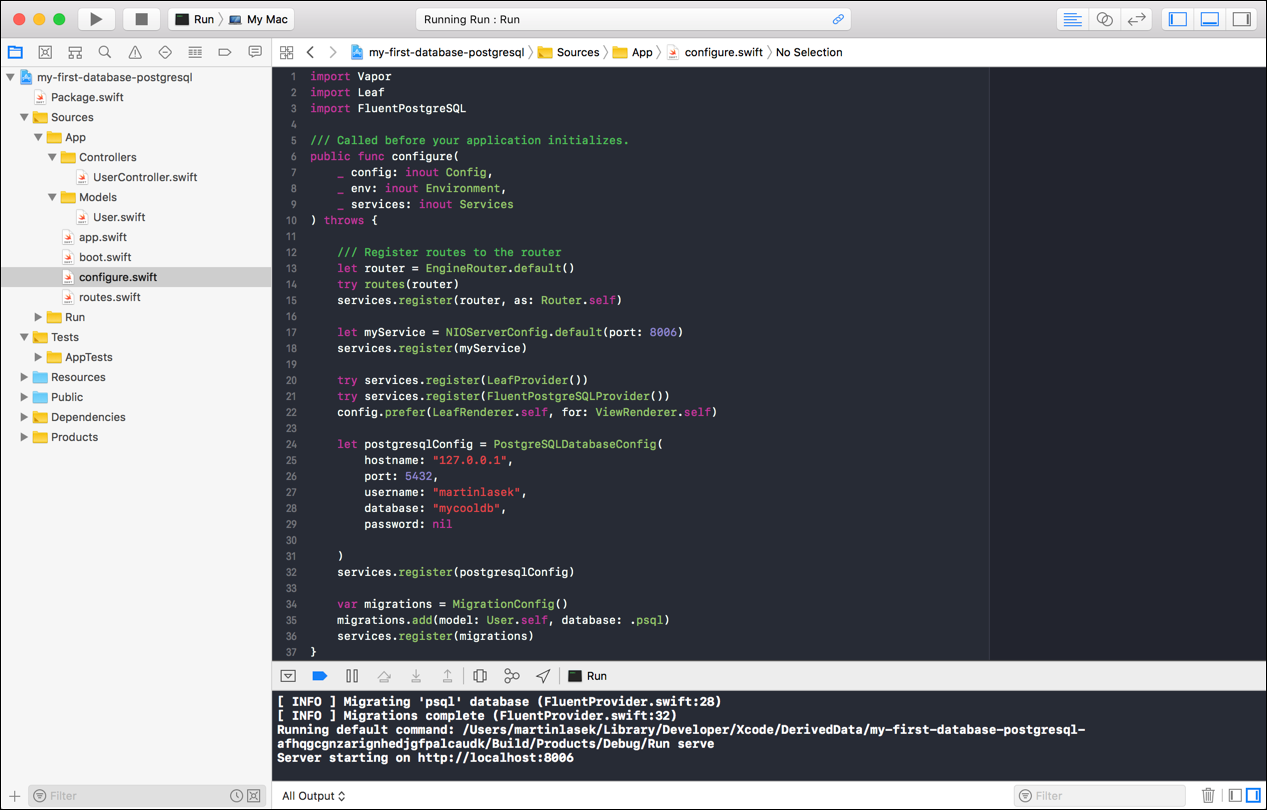
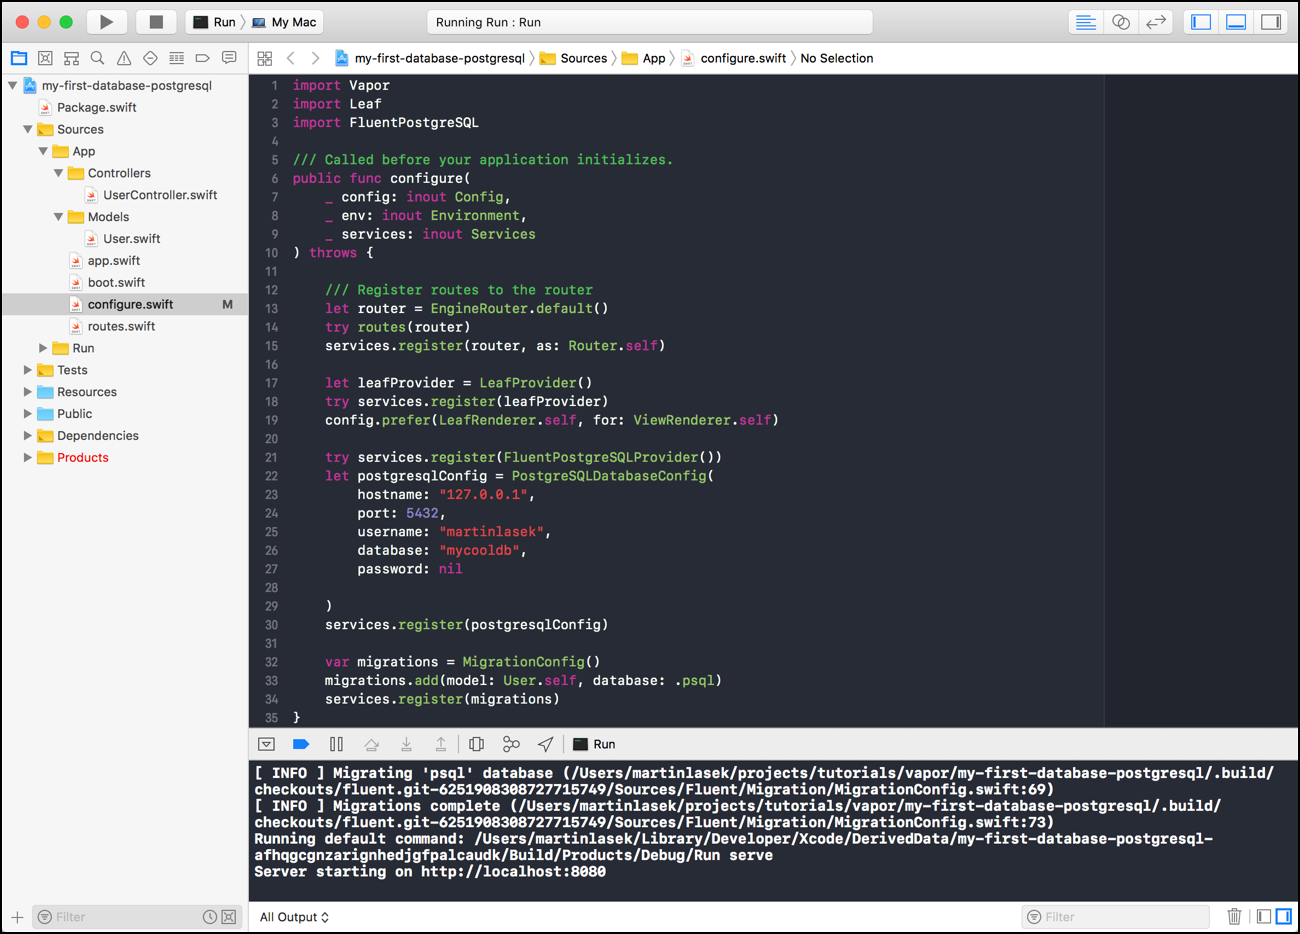
updated port configuration

Changed region(s): [[0.0, 0.0, 1.0, 1.0], [0.0, 0.9568, 0.0616, 1.0]]

diff --git a/Sources/App/configure.swift b/Sources/App/configure.swift
@@ -14,13 +14,11 @@ public func configure(
     try routes(router)
     services.register(router, as: Router.self)
 
-    let myService = NIOServerConfig.default(port: 8006)
-    services.register(myService)
-
-    try services.register(LeafProvider())
-    try services.register(FluentPostgreSQLProvider())
+    let leafProvider = LeafProvider()
+    try services.register(leafProvider)
     config.prefer(LeafRenderer.self, for: ViewRenderer.self)
 
+    try services.register(FluentPostgreSQLProvider())
     let postgresqlConfig = PostgreSQLDatabaseConfig(
         hostname: "127.0.0.1",
         port: 5432,
